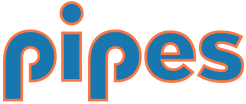
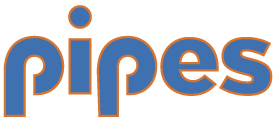
moving

diff --git a/public/stylesheets/main.css b/public/stylesheets/main.css
@@ -9,6 +9,8 @@ body {
   color: #325c93;
 }
 #logo{
+	position: relative;
+	left: -15px;
 	width: 275px;
 }
 h3{
